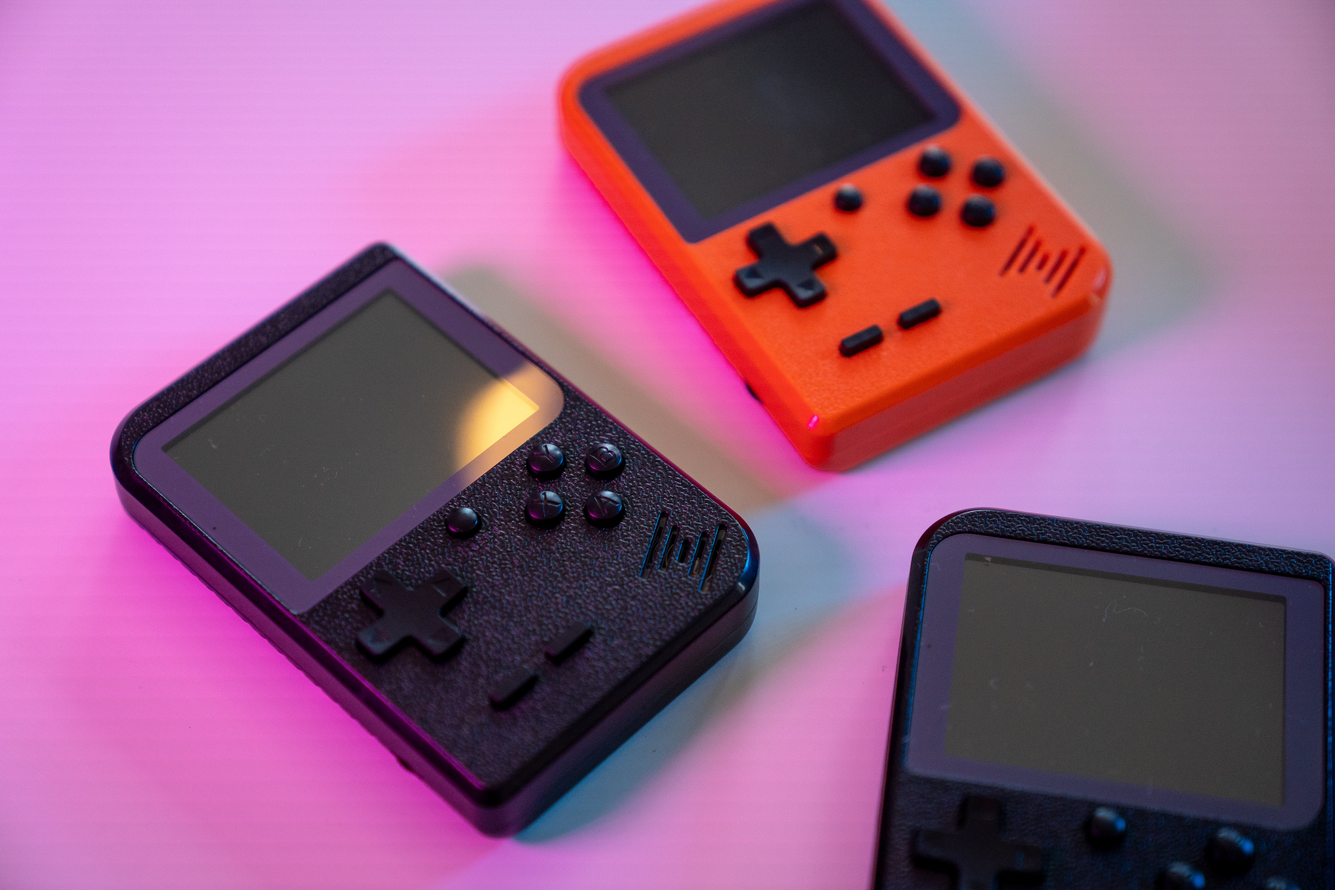
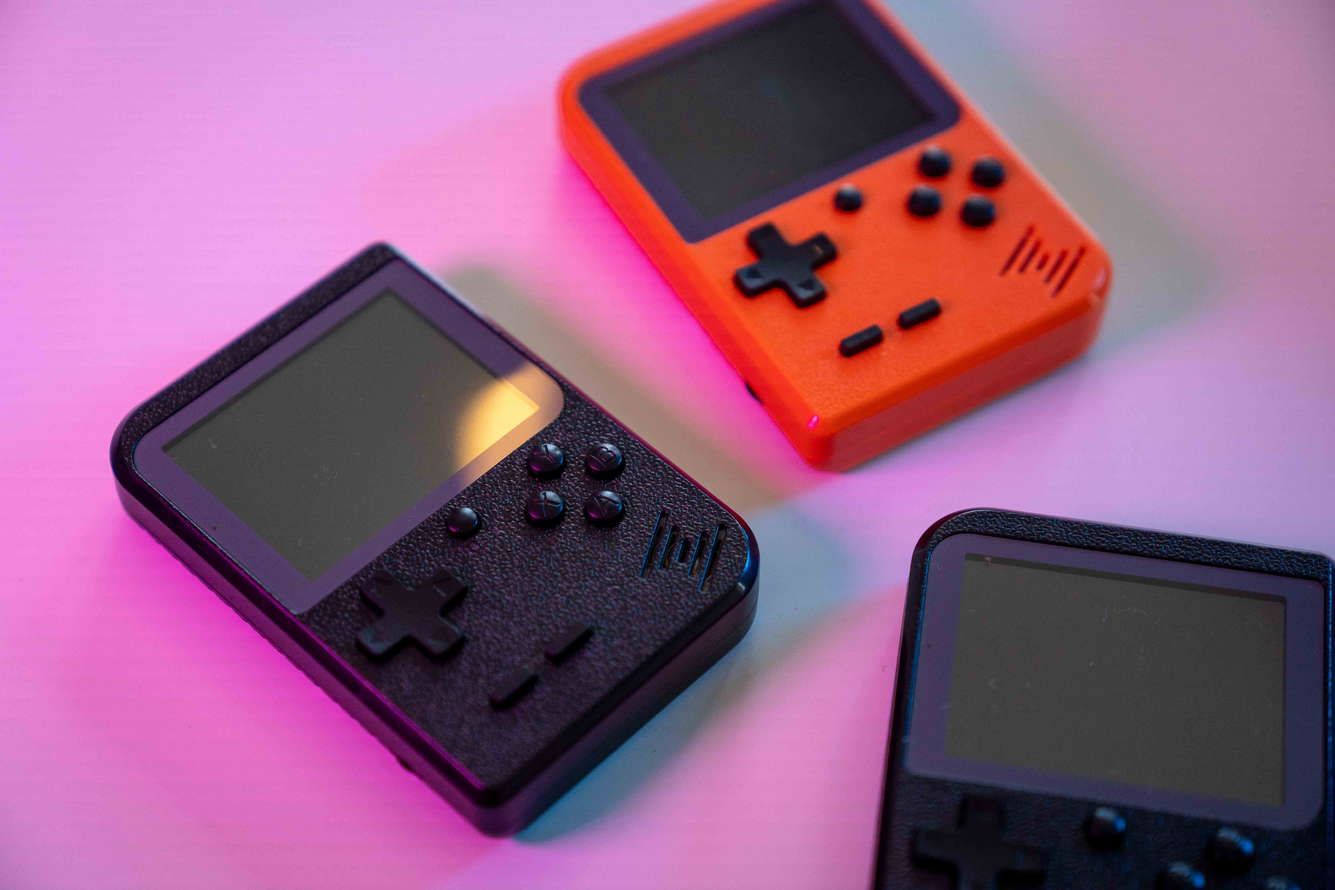
Added start/stop animation button and minified images.

Changed region(s): [[0.4987, 0.5625, 0.5298, 0.5938]]

diff --git a/script.js b/script.js
@@ -103,21 +103,27 @@ function addAnimation() {
   const scrollerInner = document.querySelector(".inner");
   const scrollerContent = Array.from(scrollerInner.children);
 
-  // Add event listeners to pause and resume animation on hover
-  scrollerInner.addEventListener("mouseenter", () => {
-    console.log("Mouse entered!");
-    document.querySelector("#projects .inner").style.animationPlayState =
-      "paused";
-  });
-  scrollerInner.addEventListener("mouseleave", () => {
-    console.log("Mouse left!");
-    document.querySelector("#projects .inner").style.animationPlayState =
-      "running";
-  });
-
   scrollerContent.forEach((item) => {
     const duplicatedItem = item.cloneNode(true);
     duplicatedItem.setAttribute("area-hidden", true);
     scrollerInner.appendChild(duplicatedItem);
   });
+}
+
+const startStop = document.getElementById("startStop");
+function startStopAnimation(event) {
+  const status = event.target.classList[0];
+  if (status === "start") {
+    startStop.classList.remove("start");
+    startStop.classList.add("stop");
+    startStop.innerHTML = "Stop animation";
+    document.querySelector("#projects .inner").style.animationPlayState =
+      "running";
+  } else if (status === "stop") {
+    startStop.classList.remove("stop");
+    startStop.classList.add("start");
+    startStop.innerHTML = "Start animation";
+    document.querySelector("#projects .inner").style.animationPlayState =
+      "paused";
+  }
 }

diff --git a/projectsStyle.css b/projectsStyle.css
@@ -26,7 +26,7 @@
   width: max-content;
   flex-wrap: nowrap;
   animation: scroll 60s linear infinite;
-  animation-play-state: running;
+  animation-play-state: paused;
 }
 
 #projects {
@@ -130,7 +130,40 @@
   transform: scale(0.1);
 }
 
-button#startStopButton {
-  background-color: red;
-  padding: 2em;
+button.start {
+  position: absolute;
+  border: 0;
+  top: 285vh;
+  left: 50%;
+  height: 2em;
+  width: 10em;
+  text-align: center;
+  vertical-align: middle;
+  background-color: #6ef3a3;
+  border-radius: 10px;
+  font-family: "Dm Sans", sans-serif;
+  color: black;
+  font-weight: 400;
+}
+
+button.stop {
+  position: absolute;
+  border: 0;
+  top: 285vh;
+  left: 50%;
+  height: 2em;
+  width: 10em;
+  text-align: center;
+  vertical-align: middle;
+  border: 2px solid #6ef3a3;
+  border-radius: 10px;
+  background-color: transparent;
+  font-family: "Dm Sans", sans-serif;
+  color: #6ef3a3;
+  font-weight: 400;
+}
+
+button {
+  cursor: pointer;
+  font-size: 15pt;
 }

diff --git a/index.html b/index.html
@@ -343,6 +343,7 @@
         </div>
       </div>
     </div>
+    <button id="startStop" class="start" onclick="startStopAnimation(event)">Start animation</button>
     <div id="contact">
         <div class="title">Contact me</div>
     </div>
